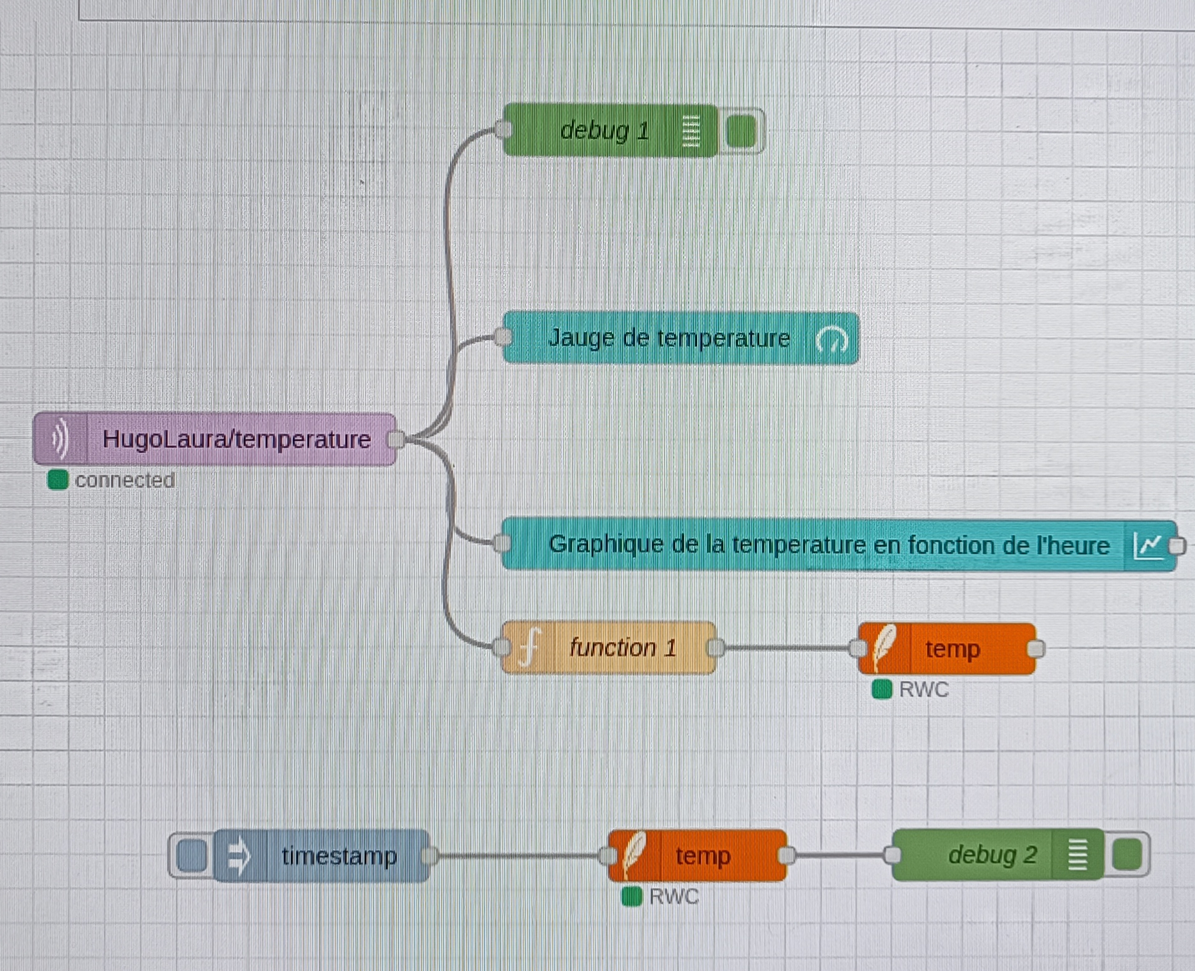
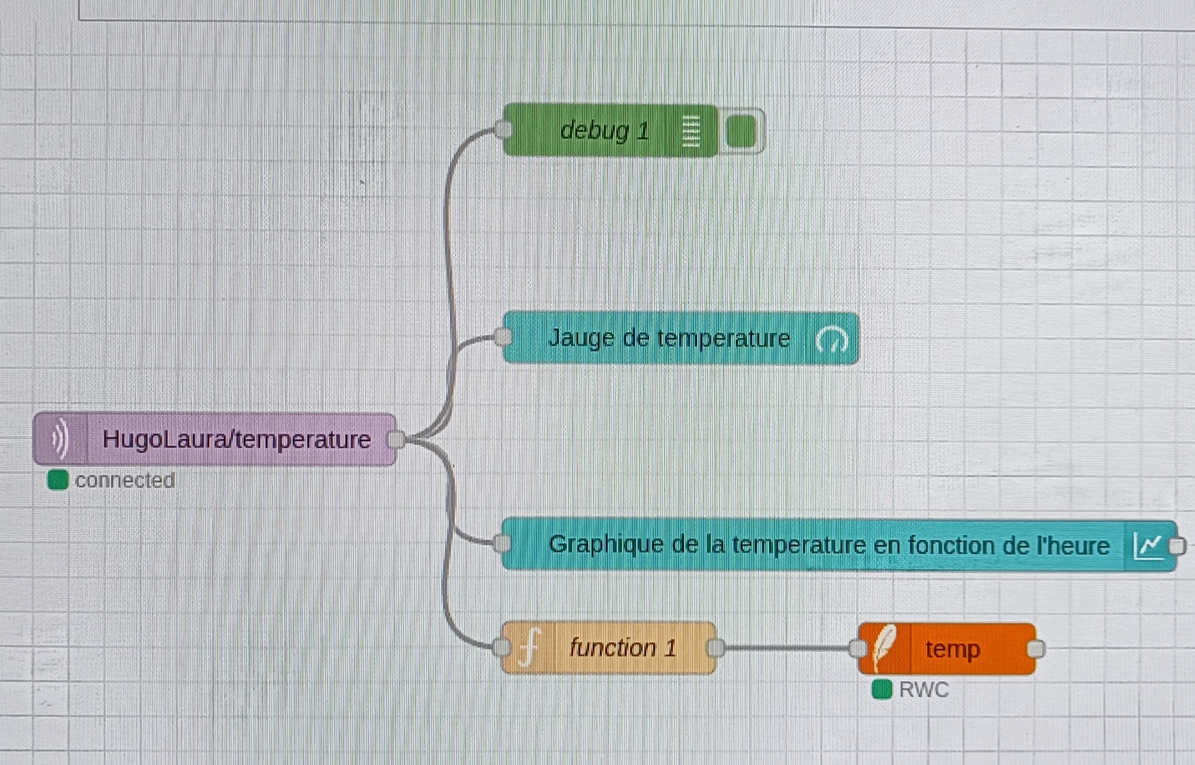
MAJ Node-red

diff --git a/README.md b/README.md
@@ -51,12 +51,11 @@ Node_Red --> Affichage_donnees
 Les données recueillies sont en temps réelles et affichées dans l'interface Node Red. 
 Après avoir récupéré ces données, nous avons configuré l'interface utilisateur. Cet interface doit afficher les valeurs de température dans un graphique. L'interface est construit à partir de 9 blocs : 
 + bloc de connexion
-+ 2 blocs debug 
++ bloc debug 
 + bloc jauge de température
 + bloc graphique
-+ 2 blocs SQLite
++ bloc SQLite
 + bloc fonction
-+ bloc inject
 
 <p align="center">
   <img src="Schema Node-Red.jpg" width="360" height="360">
